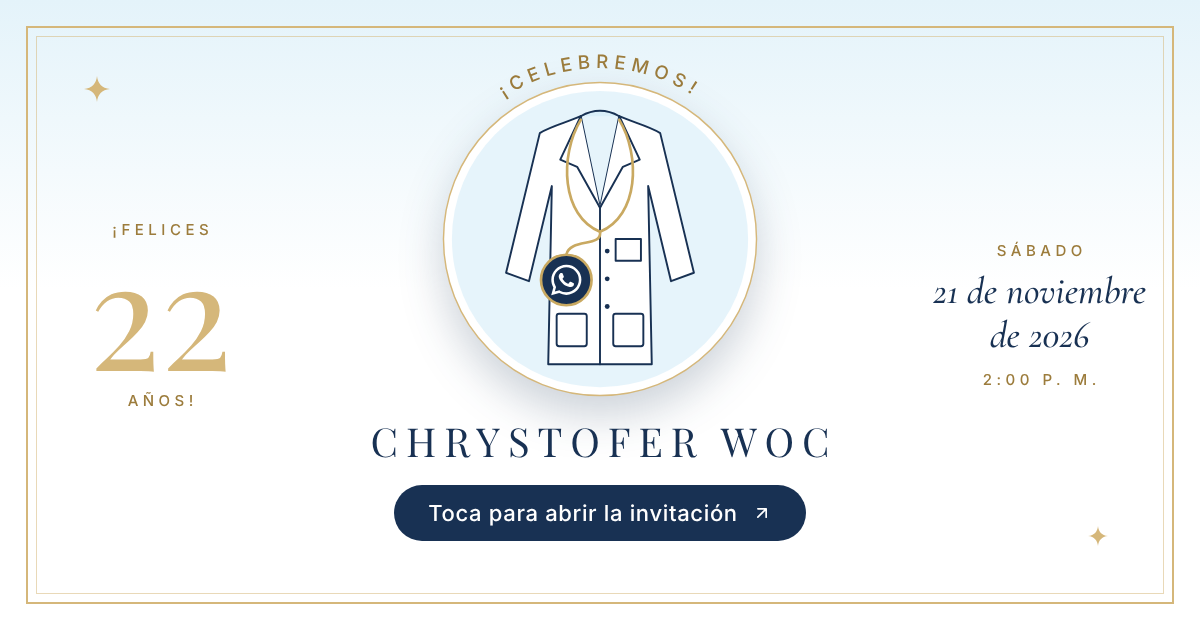
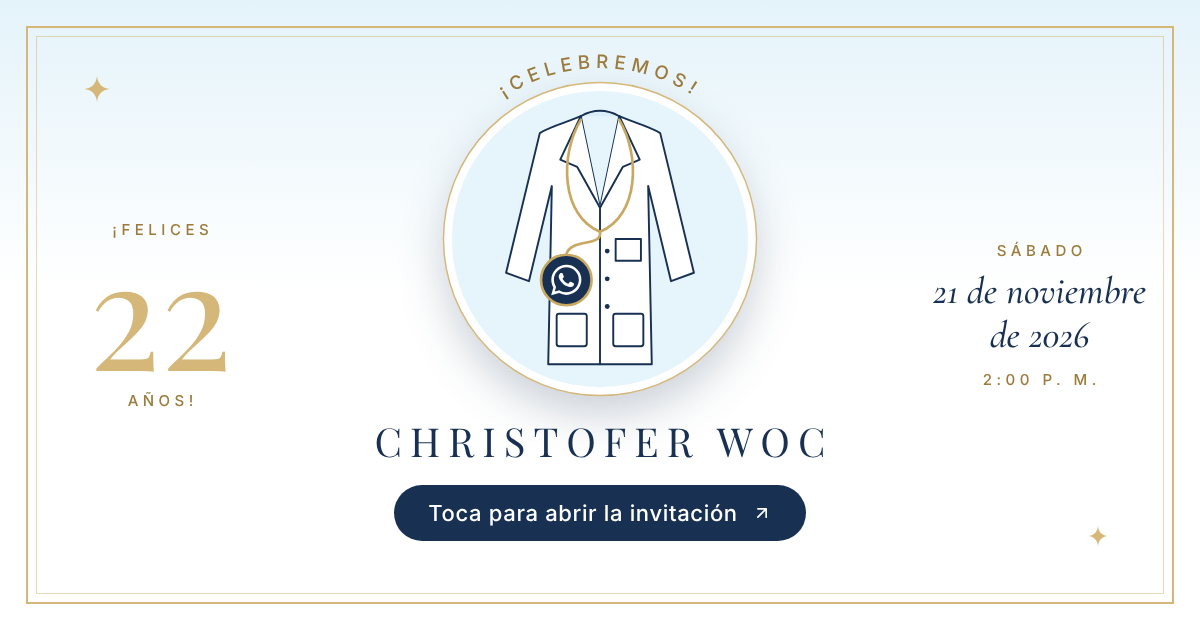
Corregir el nombre: Christofer
El nombre se escribe «Christofer», no «Chrystofer». Se corrige en todos
los textos, metadatos, la tarjeta de vista previa del enlace, el editor
y la documentación.

Claude-Session: https://claude.ai/code/session_01TGcThTLcFVeeQvFGzjAhxg

Changed region(s): [[0.3083, 0.6635, 0.6783, 0.7238]]

diff --git a/index.html b/index.html
@@ -3,21 +3,21 @@
   <head>
     <meta charset="UTF-8" />
     <meta name="viewport" content="width=device-width, initial-scale=1, viewport-fit=cover" />
-    <title>Chrystofer Woc — ¡22 años!</title>
-    <meta name="description" content="22 años de recuerdos, sueños y momentos inolvidables. Acompáñanos a celebrar el cumpleaños de Chrystofer Woc." />
+    <title>Christofer Woc — ¡22 años!</title>
+    <meta name="description" content="22 años de recuerdos, sueños y momentos inolvidables. Acompáñanos a celebrar el cumpleaños de Christofer Woc." />
     <meta name="theme-color" content="#F8F6F2" />
     <link rel="icon" type="image/svg+xml" href="./favicon.svg" />
 
     <meta property="og:type" content="website" />
     <meta property="og:locale" content="es_GT" />
-    <meta property="og:title" content="Chrystofer Woc — ¡22 años!" />
+    <meta property="og:title" content="Christofer Woc — ¡22 años!" />
     <meta property="og:description" content="22 años de recuerdos, sueños y momentos inolvidables. Sábado 21 de noviembre de 2026." />
     <meta property="og:url" content="%VITE_SITE_URL%" />
-    <meta property="og:image" content="%VITE_SITE_URL%og-image.png?v=4" />
+    <meta property="og:image" content="%VITE_SITE_URL%og-image.png?v=5" />
     <meta property="og:image:type" content="image/png" />
     <meta property="og:image:width" content="1200" />
     <meta property="og:image:height" content="630" />
-    <meta property="og:image:alt" content="Chrystofer Woc — ¡22 años!" />
+    <meta property="og:image:alt" content="Christofer Woc — ¡22 años!" />
     <meta name="twitter:card" content="summary_large_image" />
   </head>
   <body>

diff --git a/src/components/Gallery.tsx b/src/components/Gallery.tsx
@@ -77,7 +77,7 @@ export function LightboxProvider({ children }: { children: ReactNode }) {
             <img
               key={photo.id}
               src={photo.src}
-              alt={photo.title || 'Fotografía de Chrystofer'}
+              alt={photo.title || 'Fotografía de Christofer'}
               className="lb-zoom max-h-full max-w-full object-contain"
               onClick={(e) => e.stopPropagation()}
             />
@@ -156,7 +156,7 @@ export function PhotoFrame({
       >
         <img
           src={photo.src}
-          alt={photo.title || 'Fotografía de Chrystofer'}
+          alt={photo.title || 'Fotografía de Christofer'}
           width={photo.width}
           height={photo.height}
           loading={eager ? 'eager' : 'lazy'}

diff --git a/src/editor/Editor.tsx b/src/editor/Editor.tsx
@@ -203,7 +203,7 @@ export default function Editor() {
   const doExport = async () => {
     setBusy('Generando ZIP…')
     try {
-      download(await exportZip(state), 'album-chrystofer-22.zip')
+      download(await exportZip(state), 'album-christofer-22.zip')
       setNotice('ZIP descargado. Sigue los pasos de abajo para publicarlo.')
     } catch (e) {
       setNotice(`No se pudo generar el ZIP: ${(e as Error).message}`)

diff --git a/editor.html b/editor.html
@@ -4,7 +4,7 @@
     <meta charset="UTF-8" />
     <meta name="viewport" content="width=device-width, initial-scale=1" />
     <meta name="robots" content="noindex" />
-    <title>Editor del álbum — Chrystofer 22</title>
+    <title>Editor del álbum — Christofer 22</title>
     <link rel="icon" type="image/svg+xml" href="./favicon.svg" />
   </head>
   <body>

diff --git a/README.md b/README.md
@@ -1,4 +1,4 @@
-# Chrystofer Woc — ¡22 años!
+# Christofer Woc — ¡22 años!
 
 Invitación digital de cumpleaños: una página estática (React + TypeScript + Vite + Tailwind CSS) que cuenta
 22 años de historia en fotografías y termina con la invitación a la celebración.
@@ -110,7 +110,7 @@ En *Environment Variables* define `VITE_SITE_URL` con la URL que te asigne Verce
 
 ## 9. Compartir el enlace por WhatsApp
 
-Pega la dirección de la página en un chat. WhatsApp mostrará la tarjeta de la bata con el título «Chrystofer Woc — ¡22 años!»
+Pega la dirección de la página en un chat. WhatsApp mostrará la tarjeta de la bata con el título «Christofer Woc — ¡22 años!»
 (`public/og-image.png`). Si antes compartiste el enlace y no se actualiza la vista previa, añade `?v=2` al final.
 Dentro de la invitación, el botón **Compartir invitación** abre el menú de compartir del teléfono (o copia el enlace).
 
